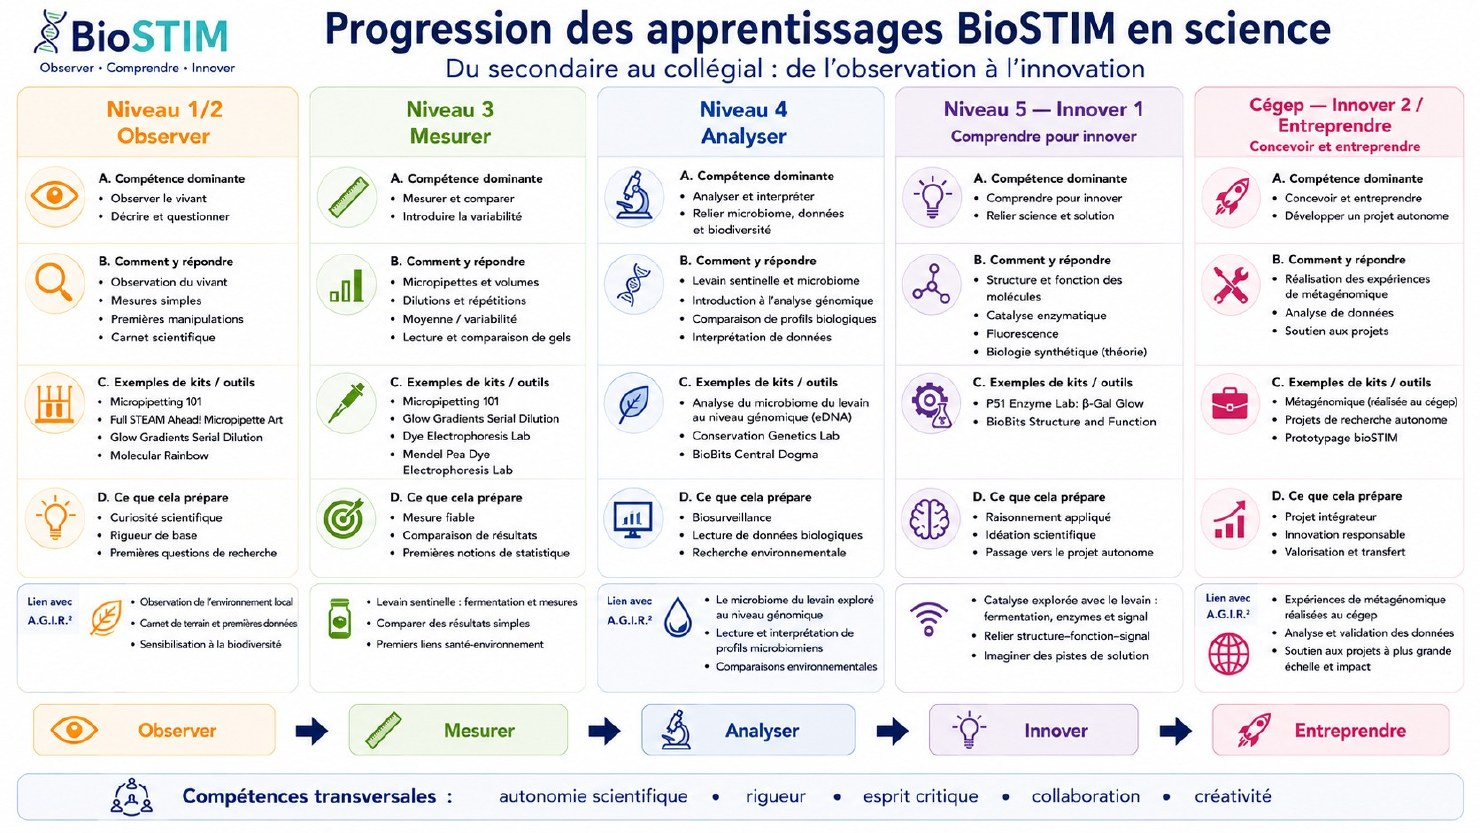
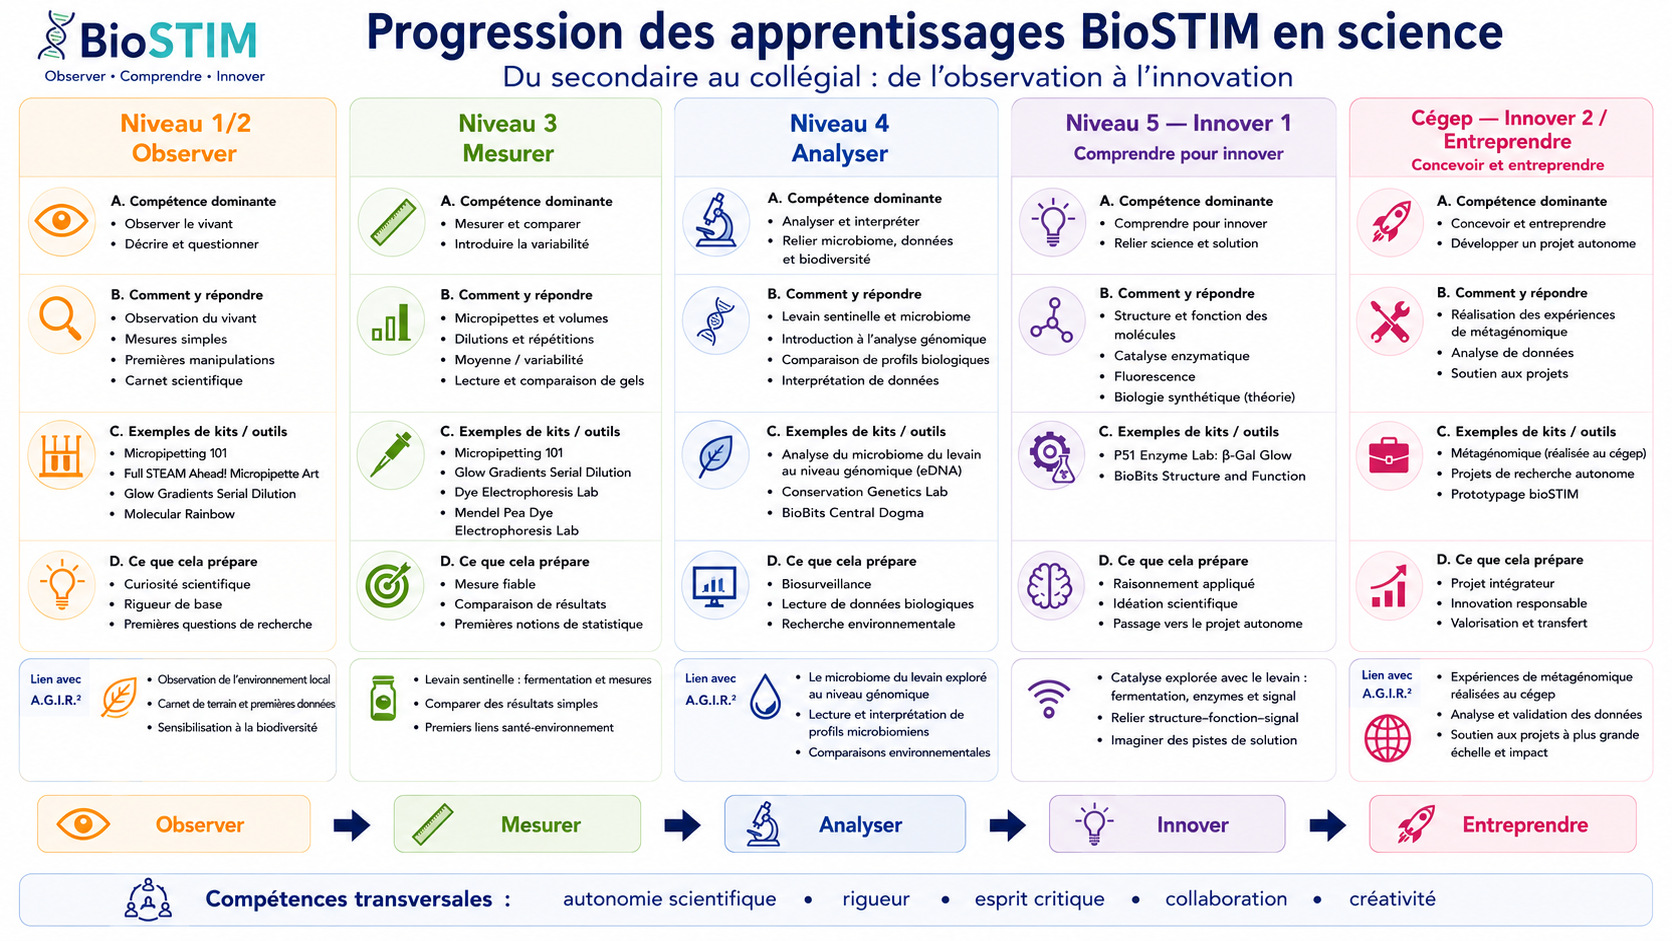
Enseignants : progression BioSTIM et outils miniPCR en meilleure résolution
Claude-Session: https://claude.ai/code/session_01M2T4puYVa5WwyfSRESR7Hv

diff --git a/enseignants.html b/enseignants.html
@@ -561,7 +561,7 @@ a.logo-projet{text-decoration:none}
       <p class="eyebrow">Séquences BioSTIM</p>
       <h2>Du primaire à la fin du secondaire</h2>
       <p class="lead" style="margin-top:12px">Des séquences d'activités liées à la recherche A.G.I.R.², adaptées à chaque niveau. Disponibles sur demande.</p>
-      <img src="assets/progression-biostim.jpg" alt="Progression des apprentissages BioSTIM en science, du secondaire au collégial : observer, mesurer, analyser, innover, entreprendre" style="width:100%;margin-top:24px;border-radius:var(--r);border:1px solid var(--trait)">
+      <a href="assets/progression-biostim.jpg" target="_blank" rel="noopener" title="Voir en grand"><img src="assets/progression-biostim.jpg" alt="Progression des apprentissages BioSTIM en science, du secondaire au collégial : observer, mesurer, analyser, innover, entreprendre" style="width:100%;margin-top:24px;border-radius:var(--r);border:1px solid var(--trait)"></a>
       <div class="sequences">
         <div class="sequence"><strong>Primaire</strong><span>2e cycle : le levain, témoin de notre environnement</span></div>
         <div class="sequence"><strong>Secondaire 1-2</strong><span>Observer et questionner le vivant</span></div>
@@ -589,7 +589,7 @@ a.logo-projet{text-decoration:none}
             </tbody>
           </table>
         </div>
-        <figure style="margin:0"><img src="assets/outils-minipcr.jpg" alt="Les outils miniPCR de l'École : 9 thermocycleurs miniPCR, 8 blueGel, 5 GELATO, 8 visionneuses P51, 10 jeux de micropipettes de précision, 10 micropipettes d'entraînement, des supports à tubes, des embouts et des tubes PCR" style="border-radius:var(--r);width:100%;border:1px solid var(--trait)"><figcaption style="font-size:.88rem;color:var(--texte-doux);margin-top:8px">Extrait de la formation « Apprendre à innover par l'action » donnée aux enseignants.</figcaption></figure>
+        <figure style="margin:0"><a href="assets/outils-minipcr.jpg" target="_blank" rel="noopener" title="Voir en grand"><img src="assets/outils-minipcr.jpg" alt="Les outils miniPCR de l'École : 9 thermocycleurs miniPCR, 8 blueGel, 5 GELATO, 8 visionneuses P51, 10 jeux de micropipettes de précision, 10 micropipettes d'entraînement, des supports à tubes, des embouts et des tubes PCR" style="border-radius:var(--r);width:100%;border:1px solid var(--trait)"></a><figcaption style="font-size:.88rem;color:var(--texte-doux);margin-top:8px">Extrait de la formation « Apprendre à innover par l'action » donnée aux enseignants.</figcaption></figure>
       </div>
       <h3 style="font-size:1.25rem;margin:36px 0 0">Les trousses</h3>
       <div class="offres">
